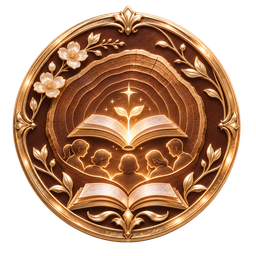
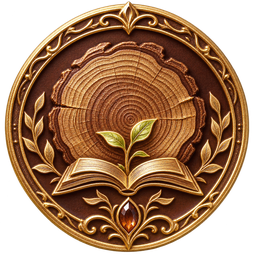
공개판 올림: 인장 2단계(경제·수요·오프), 한책읽기·지원독서 1단계 사람 없는 판

diff --git a/index.html b/index.html
@@ -1716,7 +1716,7 @@ const dTx=(d,yr)=>{ const t=new Date(d+'T00:00:00'); return `${yr?t.getFullYear(
 // 모임 카드를 가진 사람 = 그 책의 모임에 와서 홈페이지 별자리에 기록된 회원(몇 번째인지는 근거가 없어 매기지 않음)
 // 인장(11/25 에스파다): 장르마다 하나, 1회 1단계 · 5회 2단계(단계는 둘만, 방장도 같음). 지원독서는 1단계만. 모임 카드 앞면에는 넣지 않고 '인장' 쪽에만
 const STP={'문학산책':'literature','지정독서':'curated','수요독서':'wednesday','경제독서':'economics','오프모임':'offline','한책읽기':'onebook','지원독서':'supported'};
-const STO=['문학산책','지정독서','경제독서','오프모임','수요독서','한책읽기','지원독서'], STOLD={'지원독서':1}, ST2={literature:1,curated:1};   // ST2 = 2단계 그림이 있는 장르(도스 그림이 오면 더함)
+const STO=['문학산책','지정독서','경제독서','오프모임','수요독서','한책읽기','지원독서'], STOLD={'지원독서':1}, ST2={literature:1,curated:1,economics:1,wednesday:1,offline:1};   // ST2 = 2단계 그림이 있는 장르(도스 그림이 오면 더함)
 function stampsOf(who){ const r={}; if(!who||!MEM[who]) return r;
   MEM[who].filter(k=>MEETS.m[k]).sort((a,b)=>MEETS.m[a][0].localeCompare(MEETS.m[b][0])).forEach(k=>{ const [d,g]=MEETS.m[k]; if(!STP[g]) return;
     const x=r[g]||(r[g]={n:0,first:d,five:null,ks:[]}); x.n++; x.ks.push(k); if(x.n===5) x.five=d; }); return r; }

diff --git a/binder/index.html b/binder/index.html
@@ -126,7 +126,7 @@ const dTx=(d,yr)=>{ const t=new Date(d+'T00:00:00'); return `${yr?t.getFullYear(
 // 모임 카드를 가진 사람 = 그 책의 모임에 와서 홈페이지 별자리에 기록된 회원(몇 번째인지는 근거가 없어 매기지 않음)
 // 인장(11/25 에스파다): 장르마다 하나, 1회 1단계 · 5회 2단계(단계는 둘만, 방장도 같음). 지원독서는 1단계만. 모임 카드 앞면에는 넣지 않고 '인장' 쪽에만
 const STP={'문학산책':'literature','지정독서':'curated','수요독서':'wednesday','경제독서':'economics','오프모임':'offline','한책읽기':'onebook','지원독서':'supported'};
-const STO=['문학산책','지정독서','경제독서','오프모임','수요독서','한책읽기','지원독서'], STOLD={'지원독서':1}, ST2={literature:1,curated:1};   // ST2 = 2단계 그림이 있는 장르(도스 그림이 오면 더함)
+const STO=['문학산책','지정독서','경제독서','오프모임','수요독서','한책읽기','지원독서'], STOLD={'지원독서':1}, ST2={literature:1,curated:1,economics:1,wednesday:1,offline:1};   // ST2 = 2단계 그림이 있는 장르(도스 그림이 오면 더함)
 function stampsOf(who){ const r={}; if(!who||!MEM[who]) return r;
   MEM[who].filter(k=>MEETS.m[k]).sort((a,b)=>MEETS.m[a][0].localeCompare(MEETS.m[b][0])).forEach(k=>{ const [d,g]=MEETS.m[k]; if(!STP[g]) return;
     const x=r[g]||(r[g]={n:0,first:d,five:null,ks:[]}); x.n++; x.ks.push(k); if(x.n===5) x.five=d; }); return r; }

diff --git a/binder/sw.js b/binder/sw.js
@@ -1,6 +1,6 @@
 // 책미사 바인더: 인터넷이 끊겨도 마지막으로 본 카드첩이 열리게.
 // 카드첩 자체는 늘 새로 받아 보고(새 카드가 바로 보이게), 안 되면 저장해 둔 것을 연다. 그림은 저장해 둔 것을 먼저.
-const C='binder-8a318b033f';
+const C='binder-91e42b4ea6';
 self.addEventListener('install',e=>{ self.skipWaiting(); e.waitUntil(caches.open(C).then(c=>c.addAll(['./','./manifest.webmanifest','./icon-192.png']).catch(()=>{}))); });
 self.addEventListener('activate',e=>{ e.waitUntil(caches.keys().then(ks=>Promise.all(ks.filter(k=>k.startsWith('binder-')&&k!==C).map(k=>caches.delete(k)))).then(()=>self.clients.claim())); });
 self.addEventListener('fetch',e=>{ const r=e.request; if(r.method!=='GET') return; const u=new URL(r.url);
